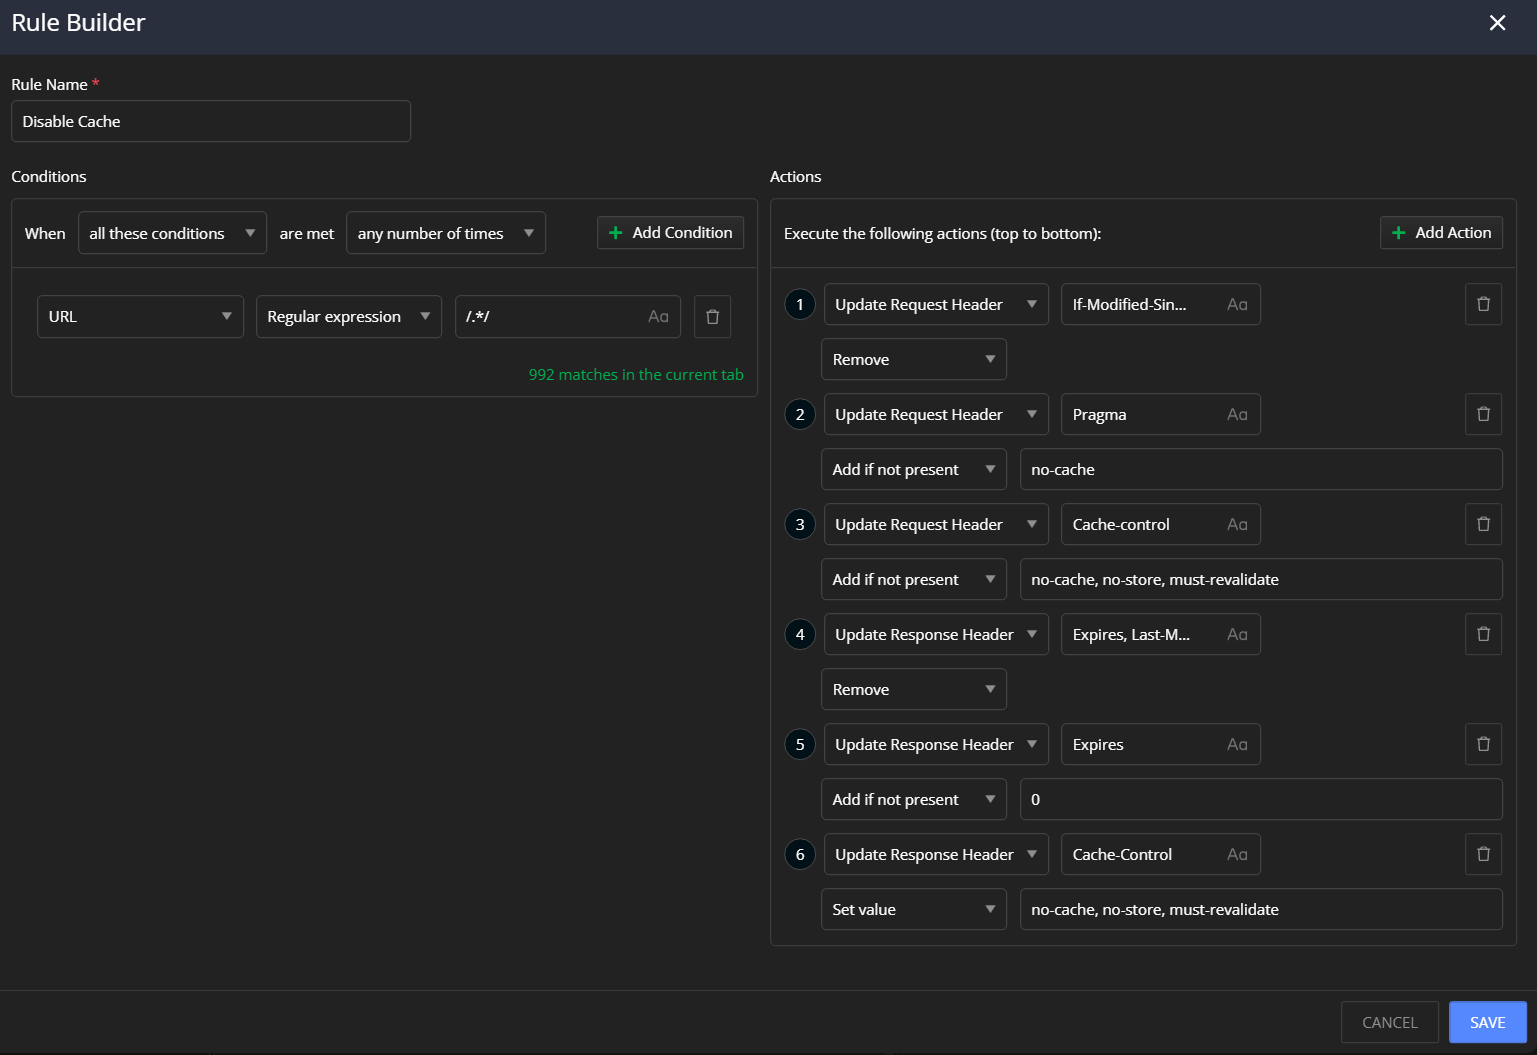
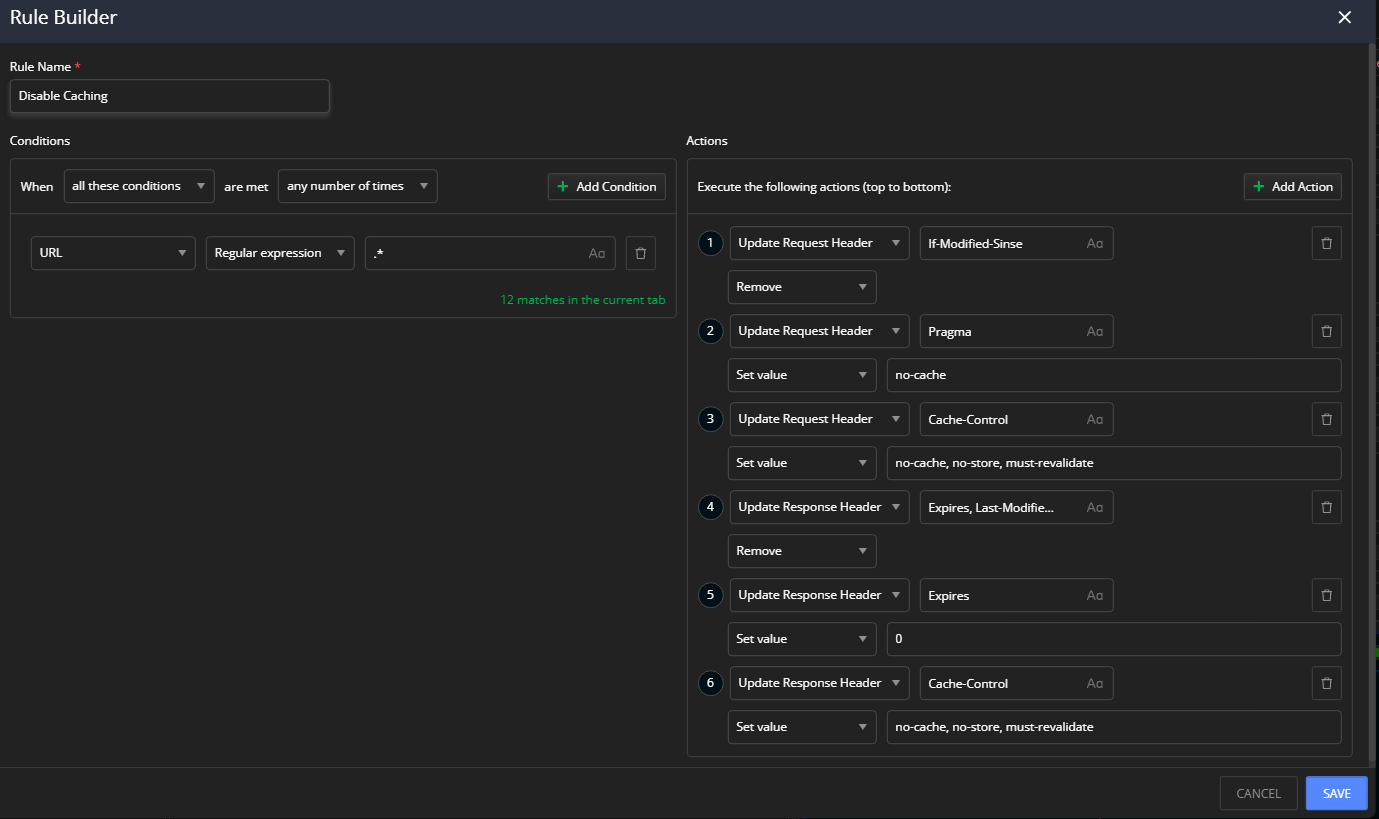
article improvments

diff --git a/knowledge-base/create-a-rule-to-disable-cache.md b/knowledge-base/create-a-rule-to-disable-cache.md
@@ -22,7 +22,7 @@ I want to always get the latest content from the server. How to prevent the serv
 
 You can use the **Rules** tab to create and apply a rule for all traffic that goes through the proxy. 
 
-- Create a condtition that matches all captured traffic (for demonstartion purposes we are using regular expression).
+- Create a condtition that matches all captured trafficc. For demonstartion purposes we are using regular expression `.*` which matches every string.
 
     ![Matching all traffic through ReGex](../images/kb/custom-rules/disable-caching-rule-condition.png)
 
@@ -31,10 +31,10 @@ You can use the **Rules** tab to create and apply a rule for all traffic that go
     | Fiddler Action | Headers | Value | Action |
     |---|---|---|---|
     | **Update Request Header** | `If-Modified-Since` | any | Remove |
-    | **Update Request Header** | `Pragma` | `no-cache` | Add if not present |
+    | **Update Request Header** | `Pragma` | `no-cache` | Set Value |
     | **Update Request Header** | `Cache-Control` | `no-cache, no-store, must-revalidate` | Set Value |
-    | **Update Response Header** | `Expires, Last-Modified, ETag` | any | Remove |
-    | **Update Response Header** | `Expires` | `0` | Add if not present |
+    | **Update Response Header** | `Expires, Last-Modified, ETag`| any | Remove |
+    | **Update Response Header** | `Expires` | `0` | Set Value |
     | **Update Response Header** | `Cache-Control` | `no-cache, no-store, must-revalidate` | Set Value |
 
 
